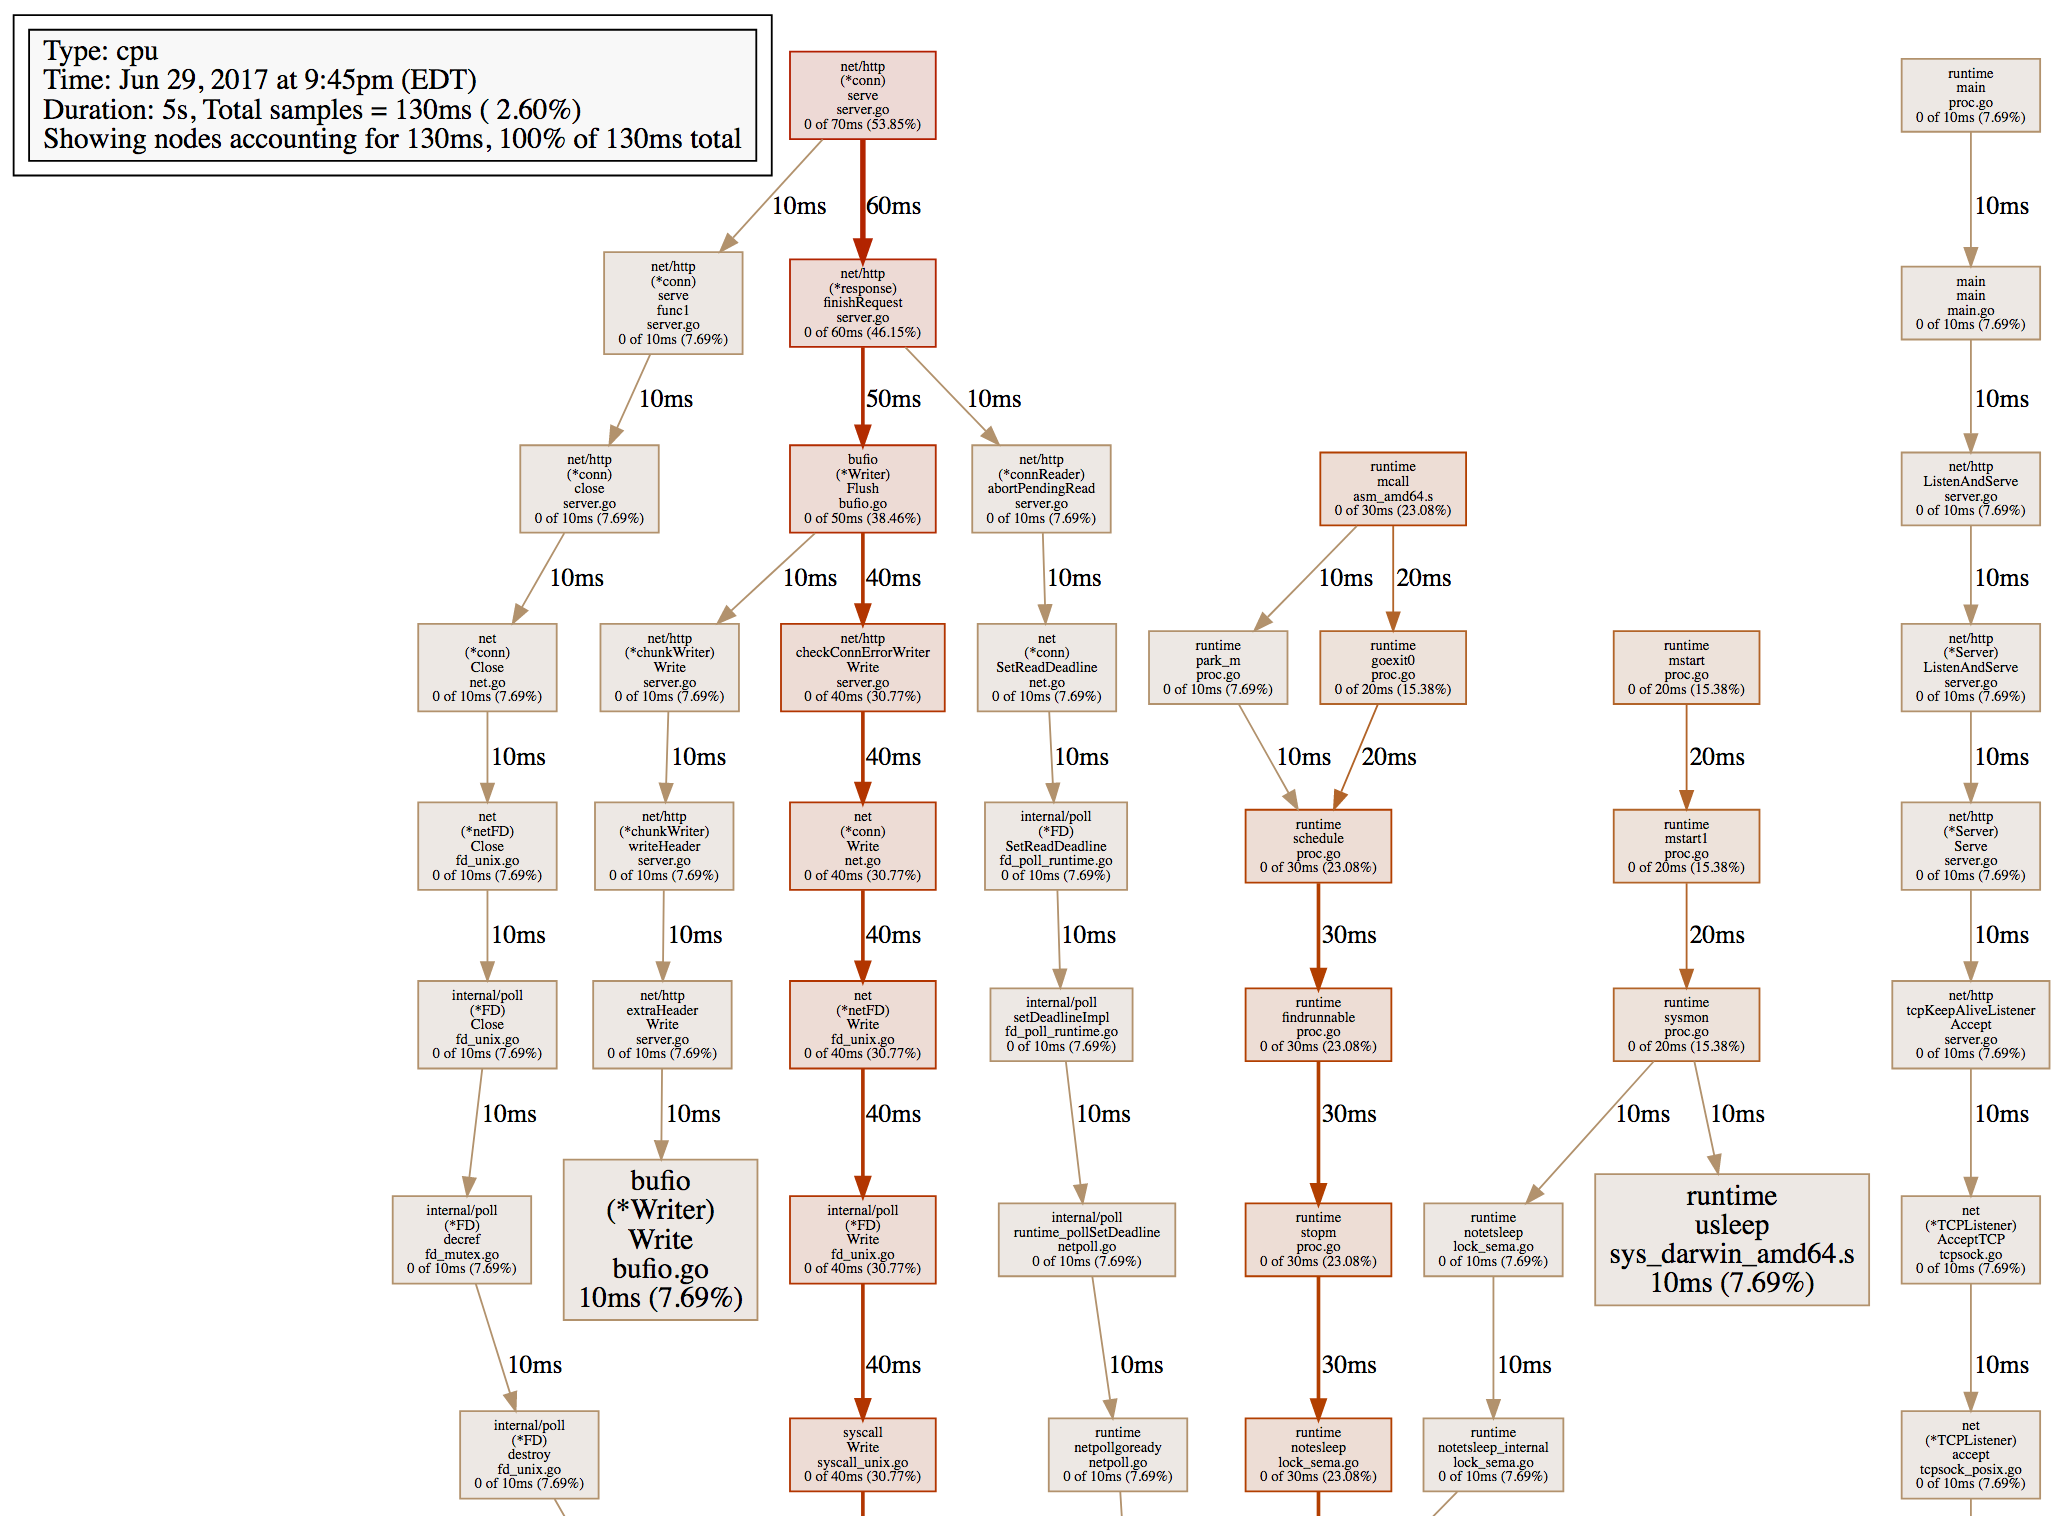
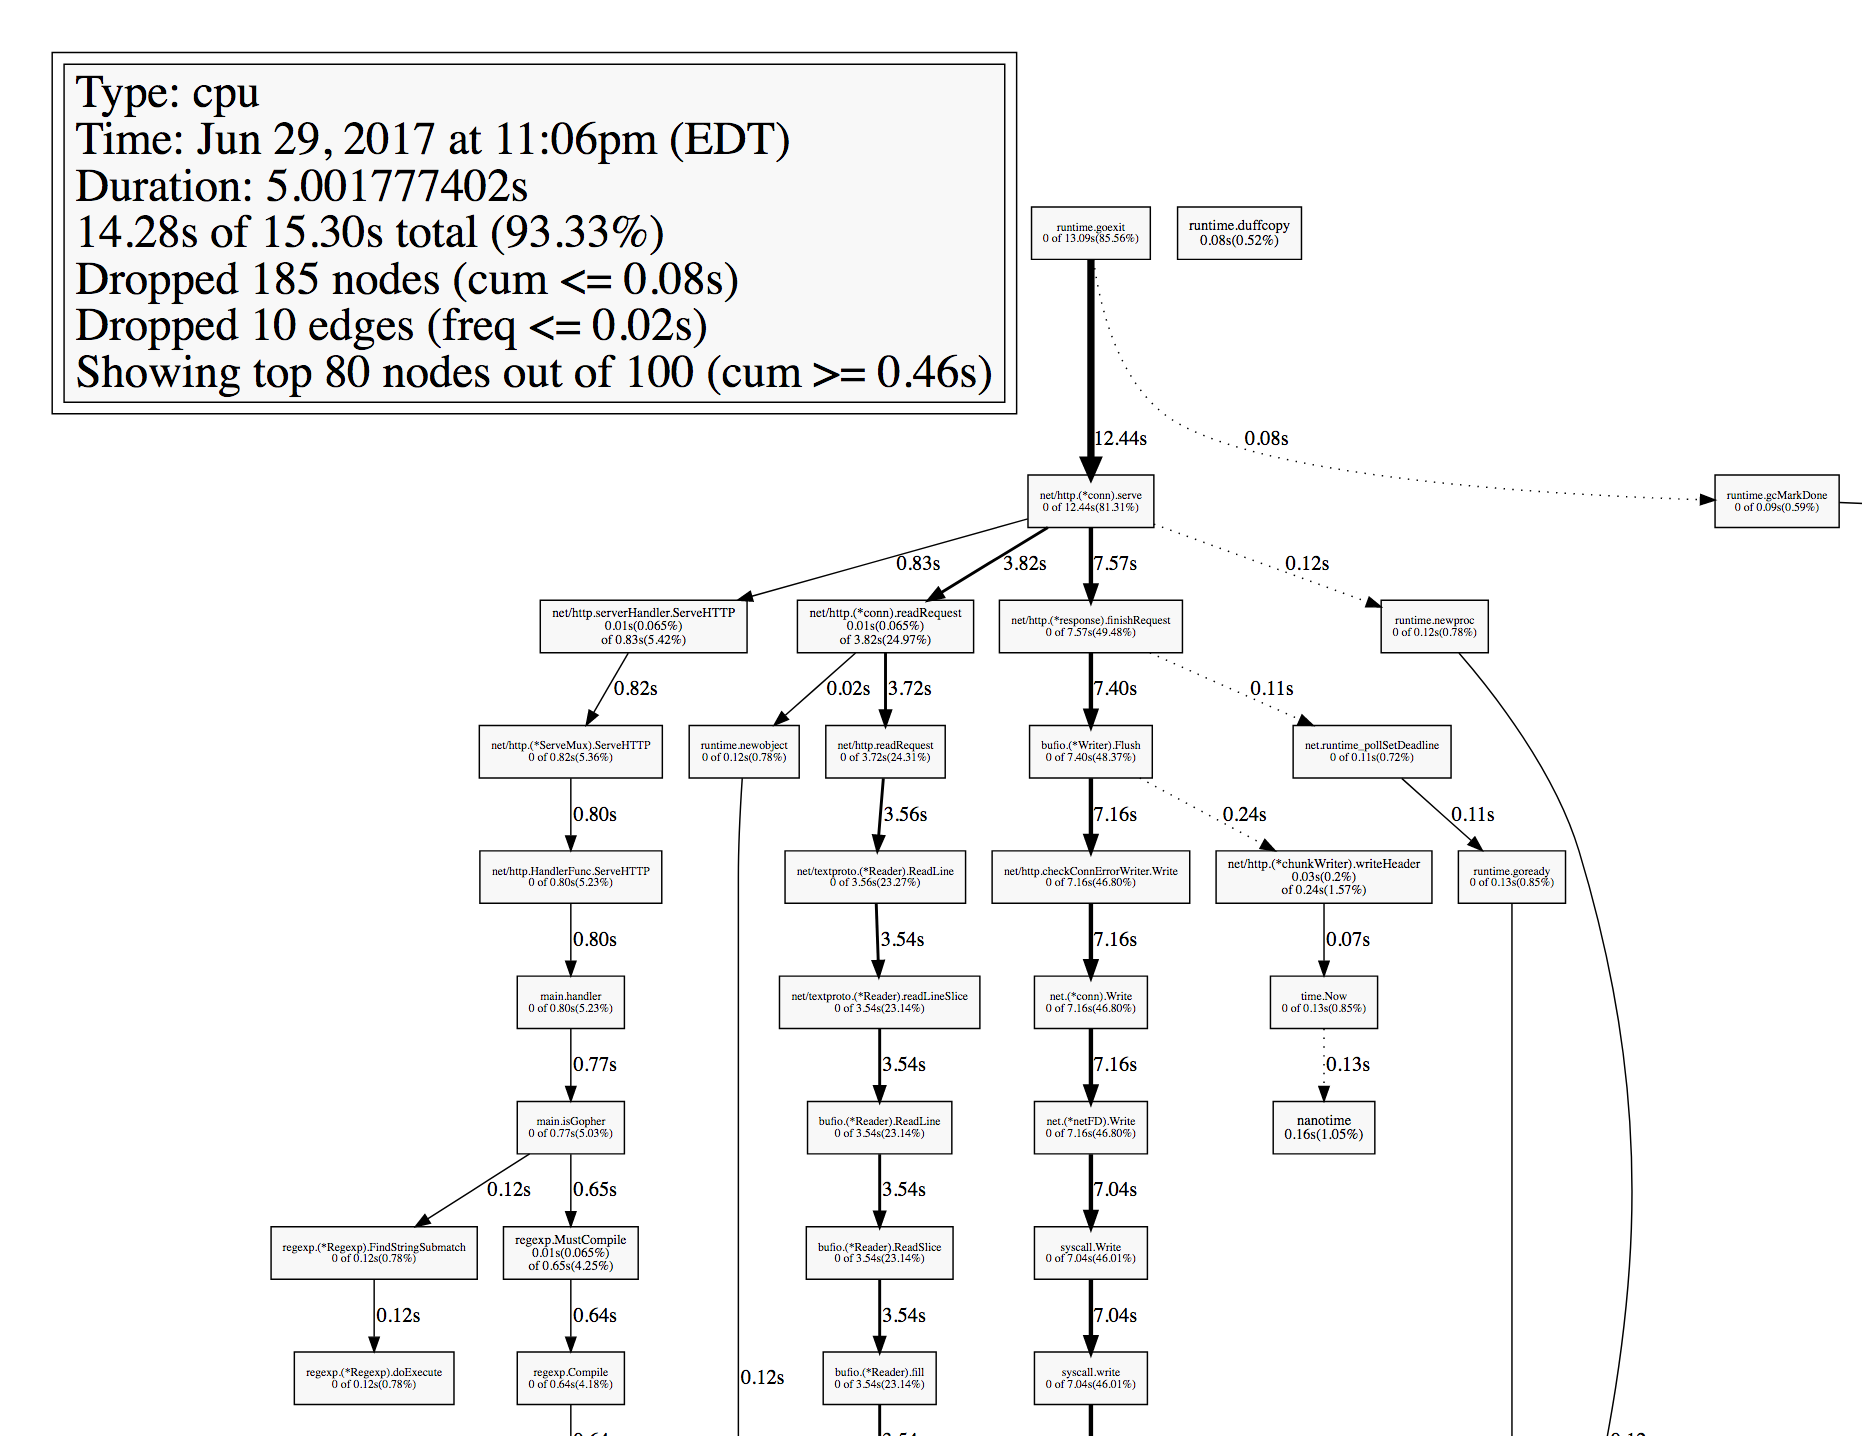
pretty much done

diff --git a/3-dynamic-analysis/3-profiling/webserver/main.go b/3-dynamic-analysis/3-profiling/webserver/main.go
@@ -23,6 +23,7 @@ import (
 
 func main() {
 	http.HandleFunc("/", handler)
+	log.Printf("listening on localhost:8080")
 	log.Fatal(http.ListenAndServe("localhost:8080", nil))
 }
 

diff --git a/3-dynamic-analysis/3-profiling/3-flame-graphs.md b/3-dynamic-analysis/3-profiling/3-flame-graphs.md
@@ -1,0 +1,81 @@
+# Flame Graphs
+
+Flame Graphs are a different way of displaying information obtained by profiling
+software. It has the advantage that it shows code paths in a more natural way
+allowing programmers to understand how to optimize their programs eaiser.
+
+You can read more about them in [this page](http://www.brendangregg.com/flamegraphs.html), by the creator of the flame graph.
+
+Rather than spending a long time explaining why they're better, let's simply use
+them! In order to generate flame graphs from Go we will use
+[go-torch](https://github.com/uber/go-torch) tool developed by Uber.
+
+In order to install it, simply run:
+
+```
+$ go get github.com/uber/go-torch
+$ go get github.com/brendangregg/FlameGraph/...
+$ export PATH=$PATH:$GOPATH/src/github.com/brendangregg/FlameGraph
+```
+
+Then while running the server and some traffic into it with `go-wrk`, we can
+run the following command.
+
+```bash
+go-torch -t 5
+INFO[23:10:47] Run pprof command: go tool pprof -raw -seconds 5 http://localhost:8080/debug/pprof/profile
+INFO[23:10:52] Writing svg to torch.svg
+```
+
+Now, let's see what we have in that `torch.svg` file! It's an interactive SVG graph,
+we can click around and navigate to better understand what took the longest for
+each function.
+
+The longest time we spent in a function, the wider the function will appear on the
+graph. The colors and the order on the graph are random, so do not pay attention to
+those.
+
+![animated flame](flame.gif)
+
+According to this it seems like we spend most of our time compiling the regular
+expression ... over an over.
+
+## Generating flame graphs from existing cpu profiles
+
+Flame graphs are awesome, so I understand that you might want to use them with
+the result of running a benchmark with `-cpuprofile`. It's also very simple,
+simply run:
+
+```bash
+$ go-torch --binaryname binary.test -b pprof.cpu
+INFO[23:10:47] Run pprof command: go tool pprof -raw binary.test pprof.cpu
+INFO[23:10:52] Writing svg to torch.svg
+```
+
+Then simply open the SVG file as before.
+
+### Exercise: putting everything together
+
+Now that we understand how to write benchmarks, create performance profiles
+from running servers, and how to display that information with amazing flame
+graphs it is time to put all of our knowledge together and optimize our
+web server.
+
+How can you make it faster?
+
+Do a small modification at a time, and make sure to either use benchmarks or
+profile the running server to decide what's the next step. Then use `go-wrk`
+to have a new idea of the external perforamnce of the server.
+
+Document everything, because that's the only way you will be able to explain
+why your server is now *magically* twice as fast!
+
+## Congratulations
+
+You're now a master of performance! You're able to get any program and analyze
+it with benchmarks and pprof, generate graphs that provide a clear view of what
+the program is spending time on, and choose the best optimization.
+
+That's awesome!
+
+This is the end of the workshop, so now there's only [one more step](../../congratulations.md).

diff --git a/3-dynamic-analysis/3-profiling/1-benchmarks.md b/3-dynamic-analysis/3-profiling/1-benchmarks.md
@@ -65,10 +65,10 @@ would need to track how long it takes to answer a single request.
 
 There's many tools that provide this functionality, such as
 [Apache Bench](https://httpd.apache.org/docs/2.4/programs/ab.html). In this
-workshop we will use [go-work](https://github.com/adjust/go-wrk), which can be installed with `go get`:
+workshop we will use [go-work](https://github.com/tsliwowicz/go-wrk), which can be installed with `go get`:
 
 ```bash
-$ go get github.com/adjust/go-wrk
+$ go get github.com/tsliwowicz/go-wrk
 ```
 
 Start running the `webserver` binary, then run `go-wrk` to get an analysis of
@@ -82,50 +82,22 @@ $ go run main.go
 In a different terminal:
 
 ```bash
-$ go-wrk http://localhost:8080
-==========================BENCHMARK==========================
-URL:				http://localhost:8080
-
-Used Connections:		100
-Used Threads:			1
-Total number of calls:		1000
-
-===========================TIMINGS===========================
-Total time passed:		8.48s
-Avg time per request:		632.28ms
-Requests per second:		117.86
-Median time per request:	45.67ms
-99th percentile time:		2076.06ms
-Slowest time for request:	4088.00ms
-
-=============================DATA=============================
-Total response body sizes:		16000
-Avg response body per request:		16.00ms
-Transfer rate per second:		1885.84 Byte/s (0.00 MByte/s)
-==========================RESPONSES==========================
-20X Responses:		1000	(100.00%)
-30X Responses:		0	(0.00%)
-40X Responses:		0	(0.00%)
-50X Responses:		0	(0.00%)
-Errors:			0	(0.00%)
+$ go-wrk -d 5 http://localhost:8080
+Running 5s test @ http://localhost:8080
+  10 goroutine(s) running concurrently
+164677 requests in 4.914899534s, 18.22MB read
+Requests/sec:           33505.67
+Transfer/sec:           3.71MB
+Avg Req Time:           298.456µs
+Fastest Request:        78.387µs
+Slowest Request:        10.08497ms
+Number of Errors:       0
 ```
 
-Great! We now know that we're able to handle around 117 requests
-per second and that the average time per request is 632ms.
+Great! We now know that we're able to handle around 33505 requests
+per second and that the average time per request is 298ms.
 
-It is important to understand what percentiles are. A Xth percentile
-time is the value for which X% of the requests will be faster.
-So the 99th percentile time being 2 seconds means that 1% of the requests
-are 2 seconds or slower. Even worse, it seems the slowest request
-took over 4 seconds!
-
-### Exercise: go-wrk
-
-Such a high 99th percentile, given the median time, means that our server
-is having capacity issues.
-
-Play with the flags available in `go-wrk` and see how you can get the 99th
-percentile time lower or higher. Have fun trying to crash your server!
+But it seems the slowest request took over 10ms!
 
 ## Benchmarks
 

diff --git a/3-dynamic-analysis/3-profiling/2-pprof.md b/3-dynamic-analysis/3-profiling/2-pprof.md
@@ -242,7 +242,7 @@ Let's try again, this time sending some traffic with `go-wrk` first, then starti
 In a terminal run:
 
 ```bash
-$ go-wrk -n 10000 -c 10 http://localhost:8080
+$ go-wrk -d 30 http://localhost:8080
 ```
 
 This will take around a minute to run, so in the meanwhile we can run
@@ -258,19 +258,20 @@ Time: Jun 29, 2017 at 9:36pm (EDT)
 Duration: 5s, Total samples = 0
 Entering interactive mode (type "help" for commands, "o" for options)
 (pprof) top
-Showing nodes accounting for 130ms, 100% of 130ms total
-Showing top 10 nodes out of 68
+13.92s of 15.30s total (90.98%)
+Dropped 185 nodes (cum <= 0.08s)
+Showing top 10 nodes out of 100 (cum >= 0.08s)
       flat  flat%   sum%        cum   cum%
-      40ms 30.77% 30.77%       40ms 30.77%  runtime.mach_semaphore_signal /Users/campoy/src/golang.org/x/go/src/runtime/sys_darwin_amd64.s
-      30ms 23.08% 53.85%       30ms 23.08%  syscall.Syscall /Users/campoy/src/golang.org/x/go/src/syscall/asm_darwin_amd64.s
-      20ms 15.38% 69.23%       20ms 15.38%  runtime.mach_semaphore_wait /Users/campoy/src/golang.org/x/go/src/runtime/sys_darwin_amd64.s
-      20ms 15.38% 84.62%       20ms 15.38%  runtime.usleep /Users/campoy/src/golang.org/x/go/src/runtime/sys_darwin_amd64.s
-      10ms  7.69% 92.31%       10ms  7.69%  runtime.mach_semaphore_timedwait /Users/campoy/src/golang.org/x/go/src/runtime/sys_darwin_amd64.s
-      10ms  7.69%   100%       10ms  7.69%  syscall.Syscall6 /Users/campoy/src/golang.org/x/go/src/syscall/asm_darwin_amd64.s
-         0     0%   100%       10ms  7.69%  bufio.(*Writer).Flush /Users/campoy/src/golang.org/x/go/src/bufio/bufio.go
-         0     0%   100%       20ms 15.38%  internal/poll.(*FD).Accept /Users/campoy/src/golang.org/x/go/src/internal/poll/fd_unix.go
-         0     0%   100%       10ms  7.69%  internal/poll.(*FD).SetReadDeadline /Users/campoy/src/golang.org/x/go/src/internal/poll/fd_poll_runtime.go
-         0     0%   100%       10ms  7.69%  internal/poll.(*FD).SetsockoptInt /Users/campoy/src/golang.org/x/go/src/internal/poll/sockopt.go
+    10.79s 70.52% 70.52%     10.80s 70.59%  syscall.Syscall
+     0.71s  4.64% 75.16%      0.71s  4.64%  runtime.usleep
+     0.64s  4.18% 79.35%      0.64s  4.18%  runtime.mach_semaphore_wait
+     0.63s  4.12% 83.46%      0.63s  4.12%  runtime.kevent
+     0.46s  3.01% 86.47%      0.46s  3.01%  runtime.mach_semaphore_signal
+     0.28s  1.83% 88.30%      0.29s  1.90%  runtime.freedefer
+     0.16s  1.05% 89.35%      0.16s  1.05%  nanotime
+     0.09s  0.59% 89.93%      0.42s  2.75%  runtime.mallocgc
+     0.08s  0.52% 90.46%      0.08s  0.52%  runtime.duffcopy
+     0.08s  0.52% 90.98%      0.08s  0.52%  runtime.heapBitsSetType
 ```
 
 Cool, this time the profile got some data. Not easy to understand though, so let's

diff --git a/README.md b/README.md
@@ -25,6 +25,14 @@ The workshop is for now composed of three independent sections:
 In the future one more section might be added regarding monitoring of running
 systems, but for now that topic is out of the scope of this workshop.
 
+## Issues
+
+This workshop is very new, so some things might be missing or wrong.
+
+If you find anything that seems broken, please file an issue. Or even better,
+send a pull request! You will need to sign a CLA, you'll get the info once
+you send the PR.
+
 ## Resources
 
 These are places where you can find more information for Go:

diff --git a/congratulations.md b/congratulations.md
@@ -1,0 +1,13 @@
+# Congratulations!
+
+Seriously, this was a long workshop and you rocked it all the way!
+
+If you enjoyed the workshop make sure you give me a shoutout on Twitter, I'm
+[@francesc](https://twitter.com/francesc). If you didn't like it, let me know why!
+
+If you find something broken remember to file an issue on this repo, or if you have
+questions too.
+
+I hope you enjoyed it as much as I did writing it, and I hope you learned a ton.
+
+![fancy gopher](fancygopher.jpg)

diff --git a/3-dynamic-analysis/4-tracing/1-tracing.md b/3-dynamic-analysis/4-tracing/1-tracing.md
@@ -1,0 +1,1 @@
+TODO
